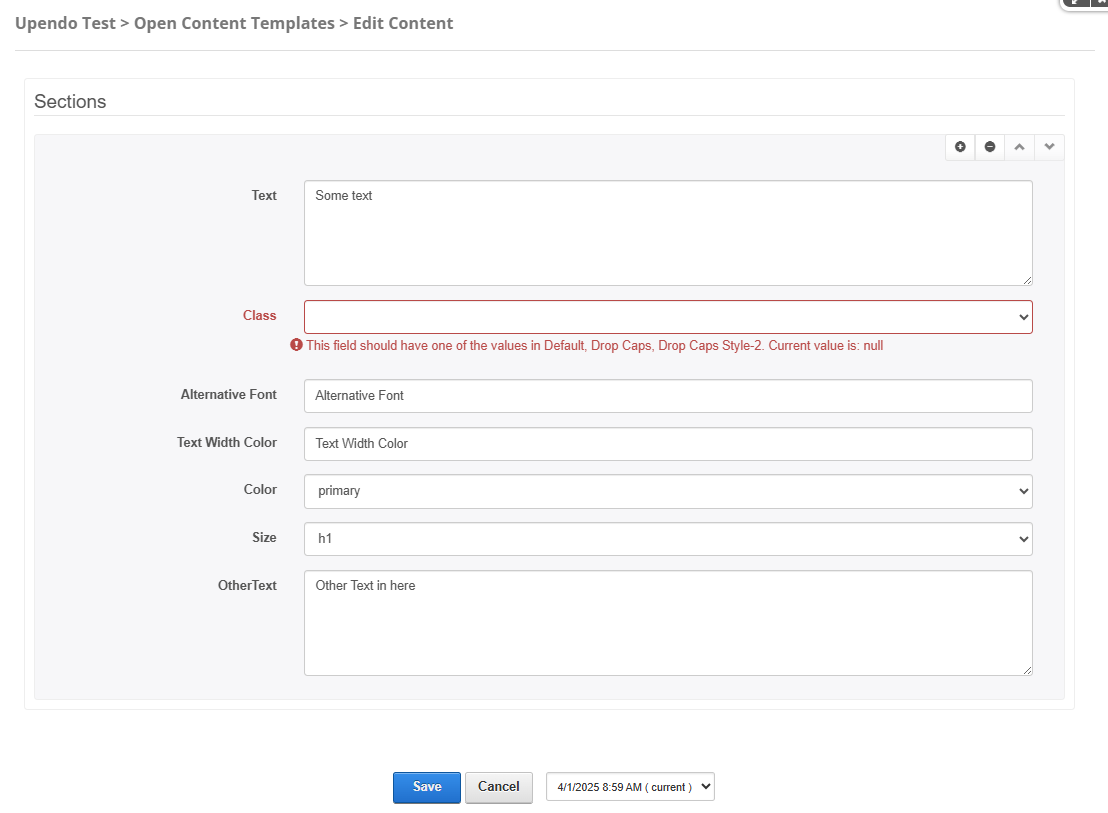
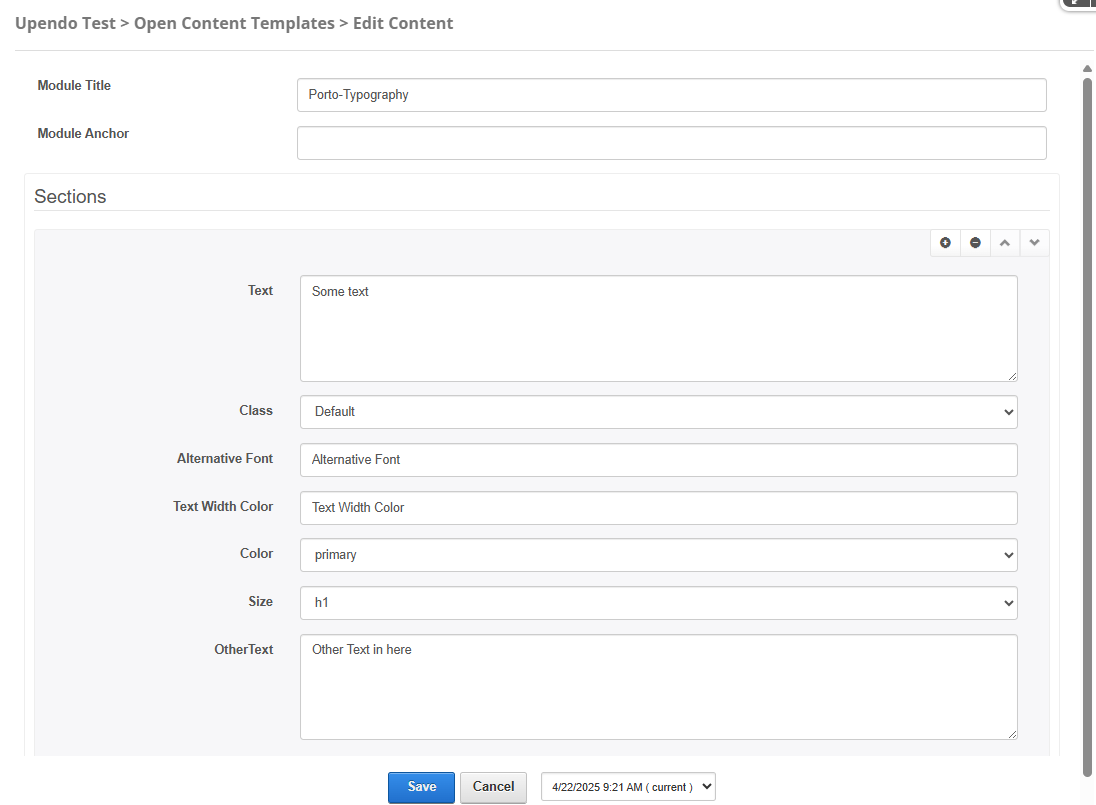
Update Porto-Typography docs

diff --git a/Porto-Typography/Porto-Typography.html b/Porto-Typography/Porto-Typography.html
@@ -229,12 +229,26 @@
             <thead>
                 <tr>
                     <th>Property</th>
+                    <th>Data Type</th>
                     <th>Description</th>
                 </tr>
             </thead>
             <tbody>
                 <tr>
+                    <td>Module Title</td>
+                    <td>String</td>
+                    <td>Used to define the title of the module. This title is displayed in the DNN administration interface to
+                        help identify the module.</td>
+                </tr>
+                <tr>
+                    <td>Module Anchor</td>
+                    <td>String</td>
+                    <td>Used to create anchor links on the page. This allows users to link directly to the module using a unique
+                        identifier. Only letters, numbers, and hyphens are allowed.</td>
+                </tr>
+                <tr>
                     <td>Sections</td>
+                    <td>List</td>
                     <td>
                         A list of text sections to display. Each section includes:
                         <ul>
